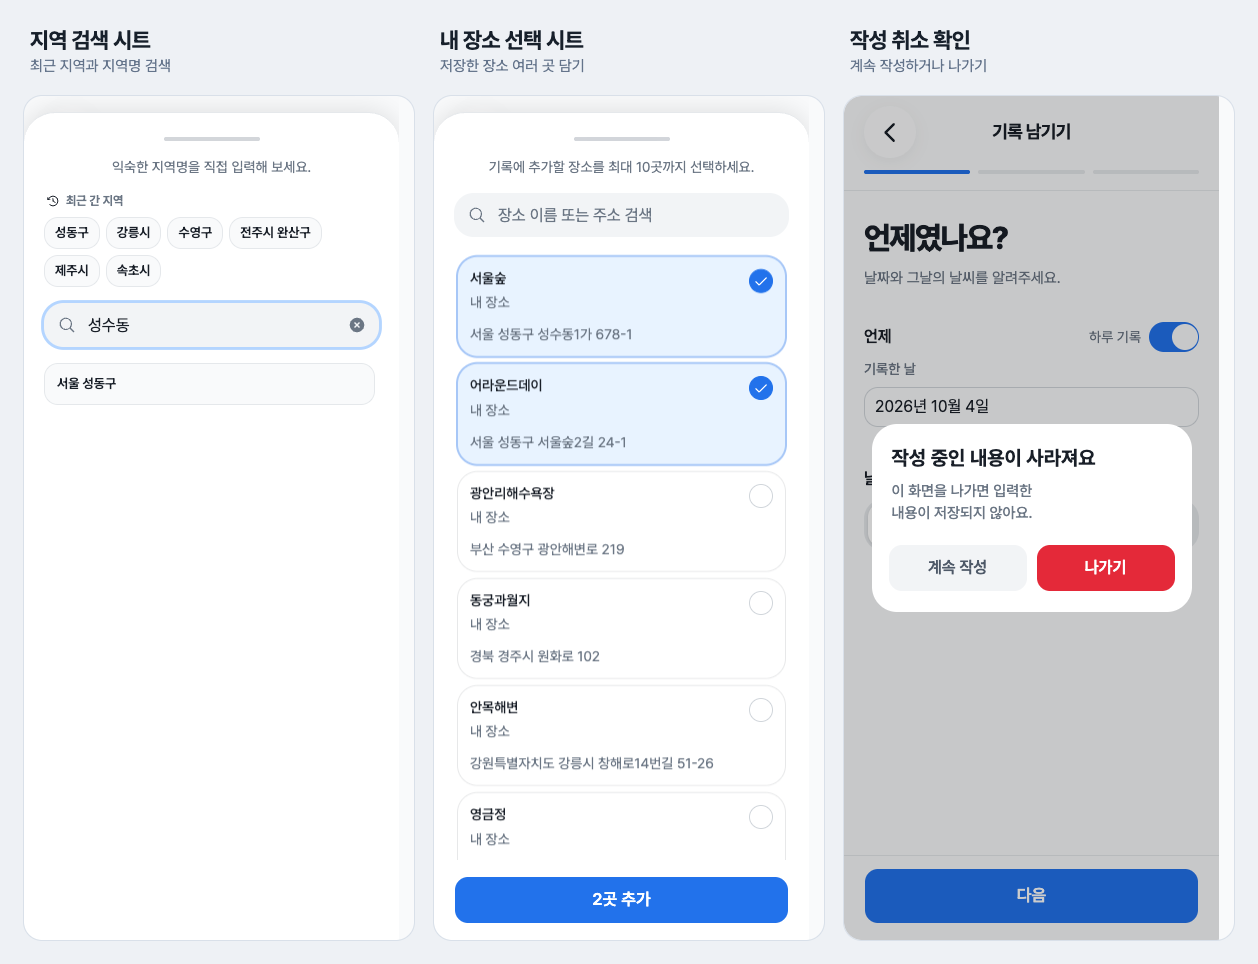
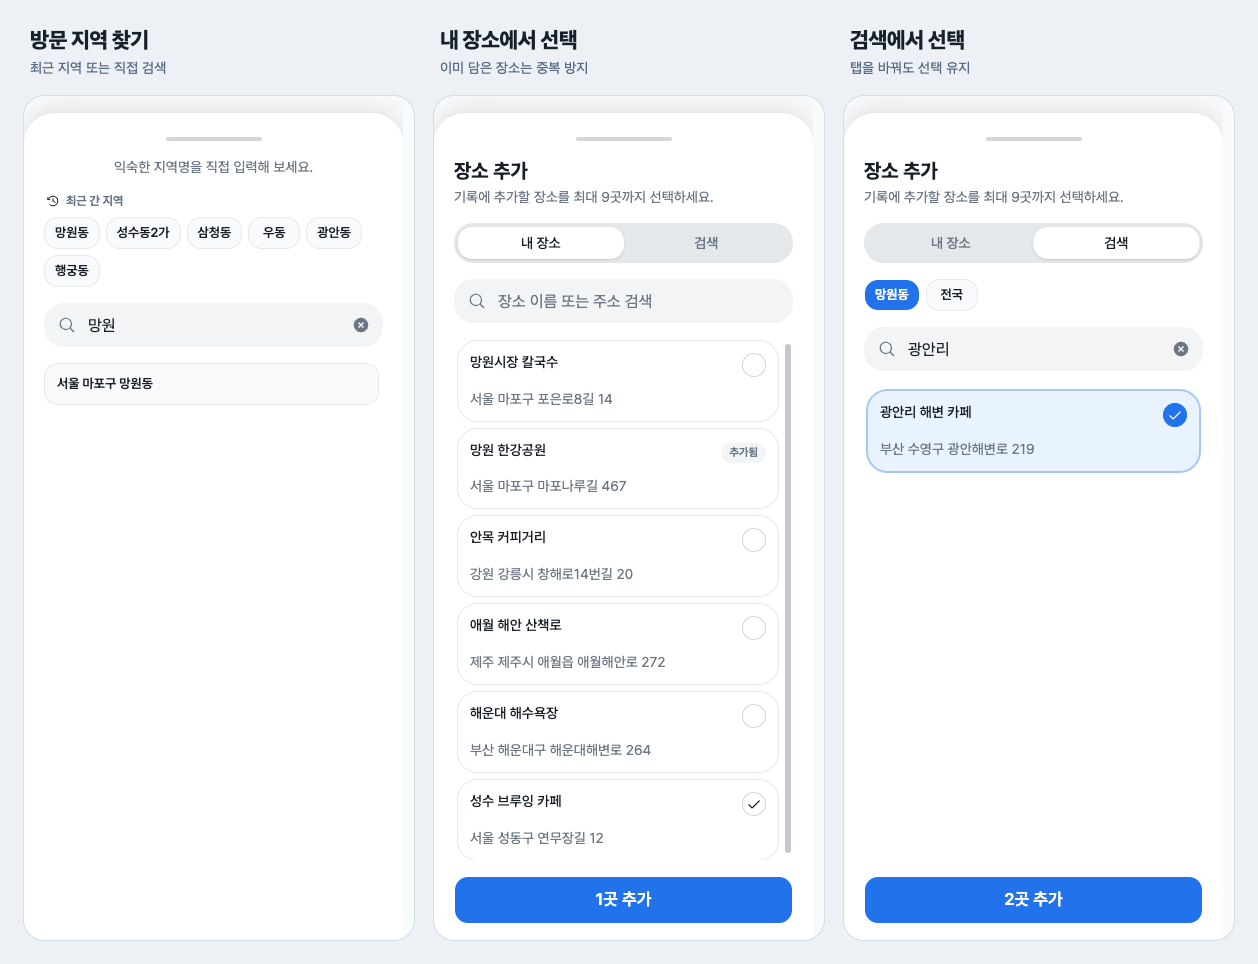
docs: 변경된 화면과 사용 흐름에 맞춰 README 갱신

diff --git a/README.md b/README.md
@@ -19,56 +19,74 @@
 ## 주요 기능
 
 - **함께 쓰는 기록**: 한 계정에 구성원을 등록하고 기기마다 현재 사용자를 선택합니다.
-  구성원 이름으로 댓글을 남길 수 있습니다.
-- **활동 지도**: 대한민국 셀 지도에 방문 지역을 표시하고 지역별 기록을 확인합니다.
+  설정의 전환 시트에서 아바타와 이름을 누르면 바로 바뀌며, 선택한 구성원 이름으로 댓글을 남깁니다.
+- **홈 활동 지도**: 큰 대한민국 셀 지도에서 방문한 지역을 한눈에 확인합니다.
   지도 아래 3열 미니 지역 지도를 누르면 해당 지역의 기록 시트가 열립니다.
-- **타임라인과 달력**: 기록을 목록 또는 달력으로 보고 활동·메모·지역을 검색하거나 기간과 정렬 조건을 바꿉니다.
-- **하루 기록하기**: 날짜 또는 기간, 방문 지역과 장소, 활동, 카테고리, 날씨, 메모를 남깁니다.
-- **장소 모아 보기**: 카카오 장소 검색으로 방문 장소를 찾고 저장합니다.
-  장소마다 연결된 기록을 다시 볼 수 있습니다.
-- **사용 환경**: 라이트·다크 테마, PWA 설치, 새 기록 알림과 웹 푸시를 지원합니다.
+  `방문 | 전체` 세그먼트로 지역 목록을 바꾸고, 화면에 고정된 현재 위치 버튼으로 지도에 내 위치를 표시합니다.
+- **지역별 기록**: 지역 시트에서 시·군·구별로 기록을 좁혀 보고, 기록을 누르면 시트 안에서 상세와 댓글을 확인합니다.
+  아래로 스와이프하면 시트가 닫힙니다.
+- **타임라인과 달력**: 좌우 타임라인 또는 월별 달력으로 기록을 돌아보고 활동·메모·지역과 카테고리로 찾습니다.
+  필터 시트에서는 첫날과 마지막 날을 각각 지정하고 최신순·오래된순을 고릅니다.
+  초기화는 시트의 선택만 지우며, ‘적용’을 눌러야 목록에 반영됩니다.
+- **하루 기록하기**: 언제 → 어디서 → 무엇을 순서로 날짜·날씨, 지역·장소, 카테고리·활동·메모를 남깁니다.
+  장소는 하나의 시트에서 `내 장소 | 검색`을 오가며 고르고, 탭을 바꿔도 선택을 유지합니다.
+- **장소 모아 보기**: 저장한 장소를 4열 그리드로 보고 이름이나 주소로 바로 검색합니다.
+  ‘새 장소 찾기’ 시트에서는 카카오 장소 검색으로 장소를 찾아 저장합니다.
+  장소 상세에는 그곳의 기록이 타임라인으로 모이며, 상단 리퀴드 글래스 기록 버튼을 누르면 해당 장소를 미리 담아 기록을 시작합니다.
+- **사용 환경**: 라이트·다크·시스템 테마, PWA 설치, 새 기록 알림과 웹 푸시를 지원합니다.
 
 ## 실제 화면
 
 로컬 앱을 모바일 화면 크기(390 x 844)로 실행해 캡처했습니다.
-화면 속 구성원 ‘지우·민준’, 방문 날짜, 활동, 메모와 댓글은 README 촬영용 가상 데이터입니다.
-장소 정보는 카카오 검색 결과를 사용했습니다.
+화면 속 구성원 이름, 방문 날짜, 활동, 메모와 댓글은 가상 데이터입니다.
+최근 변경한 화면은 실제 앱과 컴포넌트를 공유하는 체험 데모로 촬영했으며, 데모의 장소 검색 결과도 샘플 데이터입니다.
 
-핵심 사용 흐름을 합친 이미지 5개로 소개합니다.
+핵심 사용 흐름을 합친 이미지 6개로 소개합니다.
 각 이미지는 실제 화면 3장으로 구성되어 있으며 클릭하면 원본 크기로 볼 수 있습니다.
 선택 시트와 관리 화면 등 추가 캡처는 아래 상세 목록에서 확인할 수 있습니다.
 
 ### 지도와 시간으로 돌아보기
 
 대한민국 활동 지도에서 발자취를 보고 타임라인과 달력에서 함께한 날들을 다시 찾아봅니다.
+홈의 지역 목록은 3열 미니 지도로 배치되어 있으며, 방문한 지역만 보거나 전체 지역을 펼칠 수 있습니다.
 
 [![대한민국 활동 지도, 날짜순 기록 타임라인, 월별 달력과 선택한 날의 기록 목록을 이어 붙인 실제 화면](docs/images/overview-flow.png)](docs/images/overview-flow.png)
+
+### 지역별 기억 펼쳐 보기
+
+큰 대한민국 지도 아래에서 지역별 미니 지도를 3열로 확인합니다.
+`방문 | 전체`로 표시 범위를 바꾸고 원하는 지역을 한 번 눌러 기록 시트를 엽니다.
+지역 시트에서는 시·군·구로 기록을 좁혀 보거나 아래로 스와이프해 홈으로 돌아갑니다.
+
+[![큰 대한민국 지도, 방문 지역을 3열로 보여 주는 미니 지도 목록, 서울의 지역별 기록 시트](docs/images/map-flow.png)](docs/images/map-flow.png)
 
 ### 기록 작성: 언제 → 어디서 → 무엇을
 
 날짜와 날씨를 고르고 방문한 지역과 장소를 담은 뒤 카테고리·활동·메모를 입력합니다.
+장소 추가 시트의 `내 장소 | 검색`에서 저장 장소와 새 장소를 함께 선택합니다.
 
 [![날짜와 날씨 선택, 방문 지역과 장소 선택, 카테고리와 활동 및 메모 입력을 순서대로 이어 붙인 실제 화면](docs/images/record-create-flow.png)](docs/images/record-create-flow.png)
 
 ### 그날의 이야기와 댓글
 
-지역별 방문 요약에서 기록 상세로 이어집니다.
+홈의 미니 지역 지도를 눌러 지역 시트를 열고, 시·군·구별 기록에서 상세로 이어집니다.
 날짜·날씨·장소·메모를 돌아보고 구성원 이름으로 댓글을 주고받습니다.
 
-[![서울 지역의 방문 요약, 피크닉 기록 상세, 지우와 민준의 댓글과 댓글 입력창](docs/images/record-detail-flow.png)](docs/images/record-detail-flow.png)
+[![서울의 지역 기록 시트, 시트 안의 피크닉 기록 상세, 구성원의 댓글과 댓글 입력창](docs/images/record-detail-flow.png)](docs/images/record-detail-flow.png)
 
 ### 이 기기의 사용자 전환하기
 
-설정의 ‘전환’에서 구성원을 선택하고 확인 대화상자를 거쳐 현재 사용자를 바꿉니다.
+설정의 ‘전환’을 누르면 아바타·이름·현재 사용자 체크 표시가 있는 선택 시트가 열립니다.
+다른 구성원을 한 번 누르면 바로 전환되고 완료 안내가 표시됩니다.
 
-[![설정의 현재 사용자, 구성원 선택 화면, 민준으로 전환하는 확인 대화상자](docs/images/member-switch-flow.png)](docs/images/member-switch-flow.png)
+[![아바타가 있는 현재 사용자 행, 세로 목록의 사용자 전환 시트, 전환 후 설정과 완료 안내](docs/images/member-switch-flow.png)](docs/images/member-switch-flow.png)
 
 ### 장소에 쌓인 추억
 
-저장한 장소마다 함께한 날들을 모아 봅니다.
-기록 작성 중에는 카카오 검색으로 새 장소를 찾아 추가할 수 있습니다.
+저장한 장소를 4열 그리드에서 찾고, 장소 상세의 타임라인에서 함께한 날들을 모아 봅니다.
+상단 기록 버튼을 누르면 그 장소가 미리 담깁니다. 새 장소 검색과 저장은 별도 시트에서 진행합니다.
 
-[![저장한 장소 목록, 서울숲의 방문 기록, 카카오 주변 장소 검색과 선택](docs/images/place-flow.png)](docs/images/place-flow.png)
+[![저장한 장소 4열 그리드, 망원 한강공원의 기록 타임라인, 별도 시트의 새 장소 검색과 저장](docs/images/place-flow.png)](docs/images/place-flow.png)
 
 <details>
 <summary>추가 화면 보기 — 가입, 선택 시트, 수정·삭제, 설정</summary>
@@ -76,11 +94,11 @@
 아래 링크를 누르면 각 흐름의 실제 화면 3장을 볼 수 있습니다.
 
 - [회원가입 · 로그인 · 구성원 최초 설정](docs/images/auth-flow.png)
-- [지역 검색 시트 · 저장 장소 선택 시트 · 작성 중 나가기 확인](docs/images/record-picker-flow.png)
-- [기간·정렬 필터 시트 · 날짜별 기록 목록 · 시트 안의 기록 상세](docs/images/record-browse-flow.png)
+- [지역 검색 시트 · 내 장소 선택 · 새 장소 검색과 선택 유지](docs/images/record-picker-flow.png)
+- [기간·정렬 필터 시트 · 날짜별 기록 목록 · 지역 시트 안의 기록 상세](docs/images/record-browse-flow.png)
 - [기록 관리 시트 · 기록 수정 화면 위·아래](docs/images/record-manage-flow.png)
-- [새 장소 검색·저장 · 장소 관리 시트 · 장소 삭제 확인](docs/images/place-manage-flow.png)
-- [다크 모드 설정 · 구성원별 알림 · 로그아웃 확인](docs/images/settings-flow.png)
+- [새 장소 찾기 시트와 저장 · 장소 관리 시트 · 장소 삭제 확인](docs/images/place-manage-flow.png)
+- [현재 사용자 아바타가 있는 다크 모드 설정 · 구성원별 알림 · 로그아웃 확인](docs/images/settings-flow.png)
 - [기록 삭제 확인 · 댓글 삭제 확인 · 빈 검색 결과](docs/images/record-state-flow.png)
 
 </details>
@@ -134,6 +152,9 @@ pnpm dev
 [http://localhost:3000](http://localhost:3000)에서 회원가입합니다.
 이메일 인증이 켜져 있다면 인증 메일의 링크로 가입을 완료한 뒤 구성원을 등록하면 기록을 시작할 수 있습니다.
 
+로그인 없이 화면을 살펴보려면 로컬 서버 실행 후 [체험 데모](http://localhost:3000/demo)를 엽니다.
+실제 앱의 컴포넌트를 샘플 데이터로 구동하며, 데모에서 기록·장소·사용자를 바꿔도 실제 서비스에는 저장되지 않습니다.
+
 ## 프로젝트 구조
 
 ```text
@@ -144,6 +165,8 @@ src/widgets/     지도, 기록 폼 등 화면 블록
 src/features/    회원가입, 기록 생성, 장소 선택 등 사용자 행동
 src/entities/    기록, 장소, 지역, 구성원 등 도메인
 src/shared/      공용 UI, API 클라이언트, 유틸
+demo/            실제 앱 컴포넌트와 샘플 데이터를 연결하는 체험 데모
+docs/            개발 문서, 기획과 백로그, README 스크린샷
 supabase/        데이터베이스 마이그레이션
 public/          PWA 아이콘, 서비스 워커 등 정적 파일
 ```
